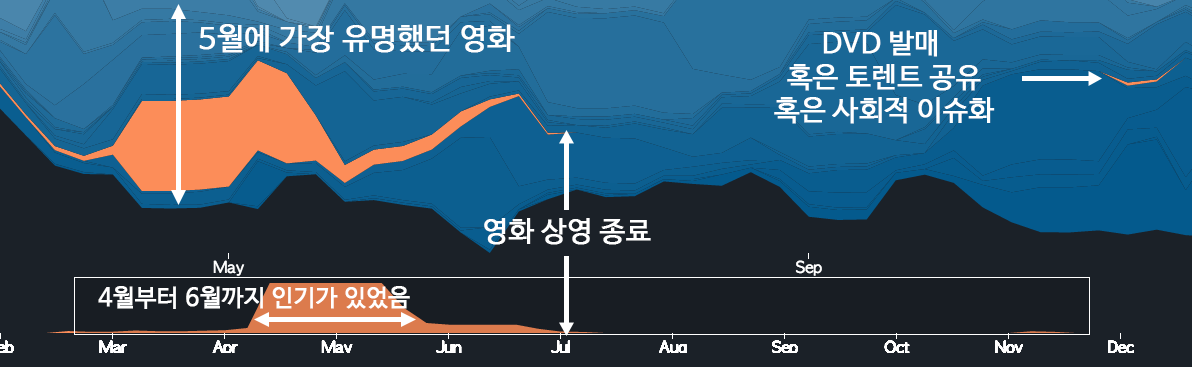
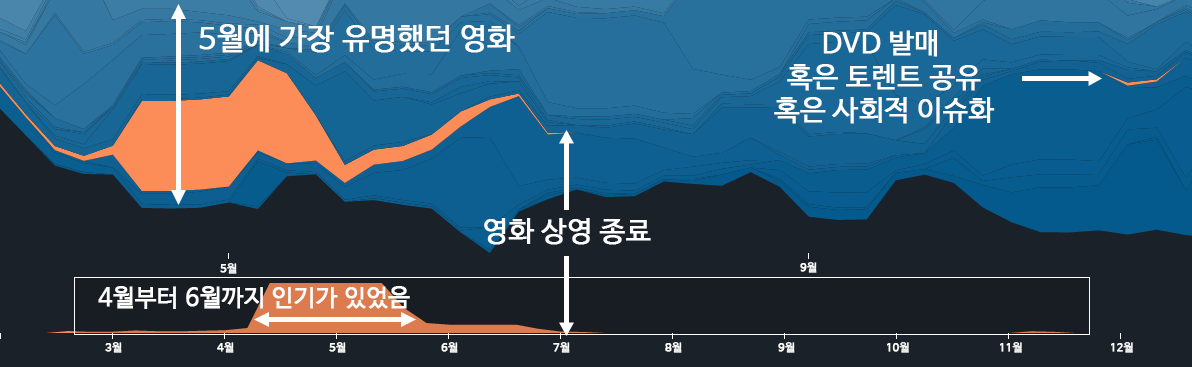
korean version up

diff --git a/templates/layout.html b/templates/layout.html
@@ -133,7 +133,7 @@ end  : 2015-??-??
                 <span class="card-title">색이 진할수록 인기가 있었던 영화 (1년 기준)</span>
                 <div class="row"></div>
                 <div class="col s12">
-                  <img src="{{ url_for('static', filename='color.png') }}" style="width:80%">
+                  <img src="{{ url_for('static', filename='color_ko.png') }}" style="width:80%">
                 </div>
               </div>
             </div>
